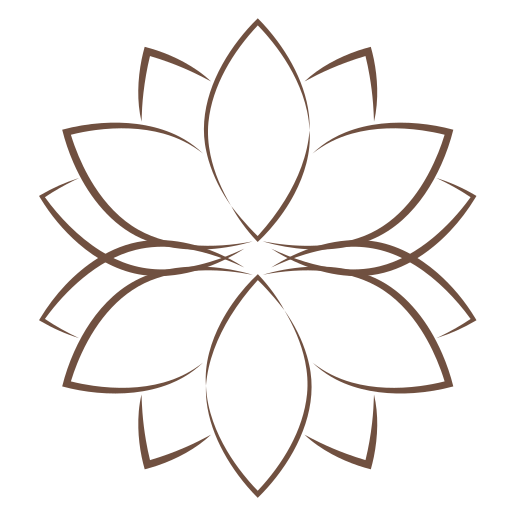
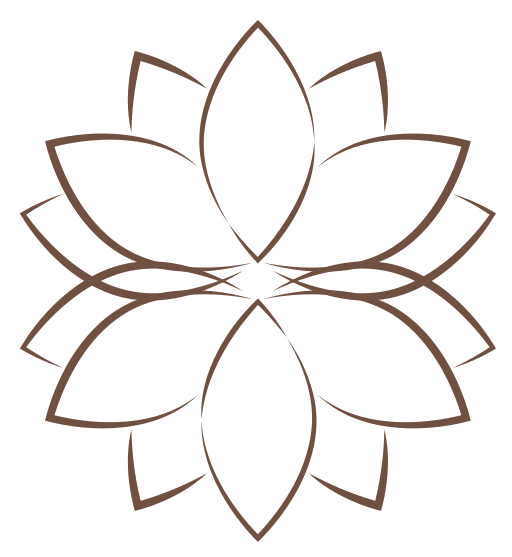
Gracias real restyle: flat brand, no gradients, transparent marks

diff --git a/gracias.html b/gracias.html
@@ -93,14 +93,14 @@
   .ornament .line {
     width: 70px;
     height: 1.5px;
-    background: linear-gradient(90deg, transparent, var(--gold), var(--gold-bright), var(--gold), transparent);
-    box-shadow: 0 0 8px rgba(201, 169, 97, 0.4);
+    background: rgba(151, 115, 86, 0.5);
+    box-shadow: 0 14px 30px rgba(74, 56, 44, 0.14);
   }
   .ornament .mark {
     color: var(--gold-bright);
     font-size: 11px;
     transform: rotate(45deg);
-    text-shadow: 0 0 12px rgba(224, 192, 116, 0.6);
+    
   }
 
   /* ==========  HERO  ========== */
@@ -140,10 +140,8 @@
     align-items: center;
     justify-content: center;
     margin: 0 auto 36px;
-    background: linear-gradient(135deg, rgba(224, 192, 116, 0.18), rgba(201, 169, 97, 0.08));
-    box-shadow:
-      0 0 0 8px rgba(201, 169, 97, 0.08),
-      0 8px 24px rgba(54, 81, 63, 0.18);
+    background: rgba(245, 237, 224, 0.55);
+    box-shadow: 0 14px 30px rgba(74, 56, 44, 0.14);
     animation: sealIn 0.9s cubic-bezier(0.34, 1.56, 0.64, 1) both;
   }
   .seal svg {
@@ -212,13 +210,10 @@
   .ceremony-card {
     max-width: 560px;
     margin: 0 auto 50px;
-    background:
-      linear-gradient(135deg, rgba(13, 22, 17, 0.6) 0%, rgba(28, 43, 35, 0.5) 100%);
+    background: rgba(46, 35, 28, 0.45);
     border: 1px solid rgba(224, 192, 116, 0.35);
     padding: 48px 44px;
-    box-shadow:
-      0 12px 36px rgba(0, 0, 0, 0.18),
-      inset 0 1px 0 rgba(224, 192, 116, 0.18);
+    box-shadow: 0 14px 30px rgba(74, 56, 44, 0.14);
     position: relative;
     text-align: left;
   }
@@ -227,7 +222,7 @@
     position: absolute;
     top: 0; left: 25%; right: 25%;
     height: 1px;
-    background: linear-gradient(90deg, transparent, rgba(224, 192, 116, 0.65), transparent);
+    background: rgba(151, 115, 86, 0.5);
     pointer-events: none;
   }
 
@@ -344,8 +339,8 @@
   .btn-primary {
     display: inline-block;
     padding: 18px 56px;
-    background: linear-gradient(135deg, var(--gold-rich) 0%, var(--gold-bright) 50%, var(--gold) 100%);
-    color: var(--green-darker);
+    background: var(--green-mid);
+    color: var(--cream-warm);
     font-family: 'Italiana', serif;
     font-size: 15px;
     letter-spacing: 0.32em;
@@ -378,7 +373,7 @@
     transition: all 0.2s ease;
   }
   .btn-ghost:hover {
-    color: var(--green-darker);
+    color: var(--cream-warm);
     border-bottom-color: var(--gold);
   }
 
@@ -398,7 +393,7 @@
     transform: translateX(-50%);
     width: 100px;
     height: 1px;
-    background: linear-gradient(90deg, transparent, var(--gold), transparent);
+    background: rgba(151, 115, 86, 0.5);
   }
   .footer-logo {
     width: 80px;
@@ -438,7 +433,7 @@
     position: absolute;
     top: 0; left: 25%; right: 25%;
     height: 1px;
-    background: linear-gradient(90deg, transparent, var(--gold), transparent);
+    background: rgba(151, 115, 86, 0.5);
   }
   .intake-eyebrow {
     font-family: 'EB Garamond', serif;
@@ -514,7 +509,7 @@
     outline: none;
     border-color: var(--gold-darker);
     background: rgba(255, 255, 255, 0.85);
-    box-shadow: 0 0 0 3px rgba(201, 169, 97, 0.15);
+    box-shadow: 0 14px 30px rgba(74, 56, 44, 0.14);
   }
   .form-textarea {
     min-height: 90px;
@@ -559,9 +554,9 @@
     letter-spacing: 0.02em;
   }
   .form-radio input:checked + label {
-    background: linear-gradient(135deg, var(--gold-rich), var(--gold));
+    background: var(--green-mid);
     border-color: var(--gold-darker);
-    color: var(--green-darker);
+    color: var(--cream-warm);
     font-weight: 600;
     box-shadow: 0 4px 14px rgba(54, 81, 63, 0.18), inset 0 1px 0 rgba(255, 255, 255, 0.4);
   }
@@ -574,8 +569,8 @@
     width: 100%;
     margin-top: 14px;
     padding: 18px 32px;
-    background: linear-gradient(135deg, var(--gold-rich) 0%, var(--gold-bright) 50%, var(--gold) 100%);
-    color: var(--green-darker);
+    background: var(--green-mid);
+    color: var(--cream-warm);
     font-family: 'Italiana', serif;
     font-size: 15px;
     letter-spacing: 0.32em;
@@ -613,7 +608,7 @@
     display: flex;
     align-items: center;
     justify-content: center;
-    background: linear-gradient(135deg, rgba(224, 192, 116, 0.2), rgba(201, 169, 97, 0.08));
+    background: rgba(245, 237, 224, 0.55);
   }
   .form-success-icon svg {
     width: 22px;
@@ -700,7 +695,7 @@ body::after{content:"";position:fixed;inset:0;z-index:99;pointer-events:none;opa
 <body>
 
   <header class="site-header">
-    <a href="/"><img src="flor-mark.png" class="header-logo" alt="Alma Sonora"></a>
+    <a href="/"><img src="flor-mark-light.png" class="header-logo" alt="Alma Sonora"></a>
   </header>
 
   <main class="gracias-hero">
@@ -875,7 +870,7 @@ body::after{content:"";position:fixed;inset:0;z-index:99;pointer-events:none;opa
   </main>
 
   <footer>
-    <img src="flor-mark.png" class="footer-logo" alt="Alma Sonora">
+    <img src="flor-mark-light.png" class="footer-logo" alt="Alma Sonora">
     <div class="footer-name">Alma Sonora</div>
     <p class="footer-copy">© 2026 Alma Sonora · Miami, FL</p>
   </footer>